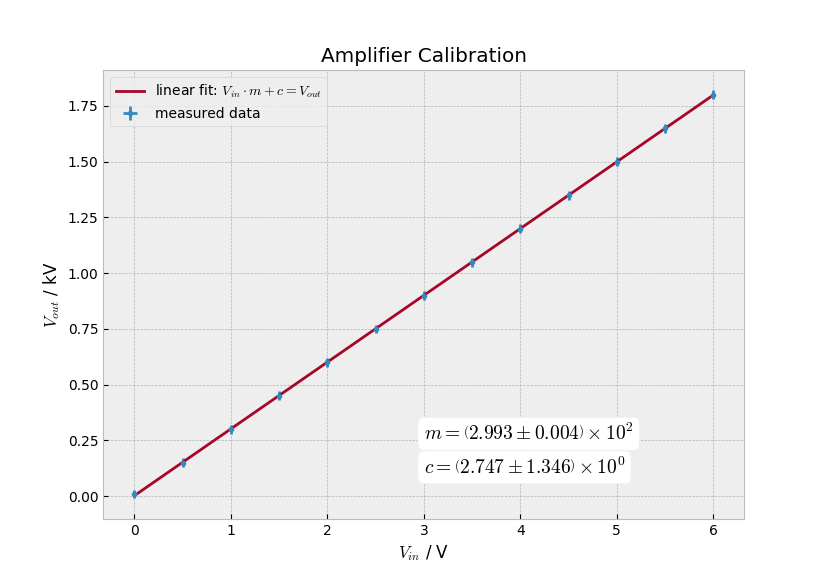
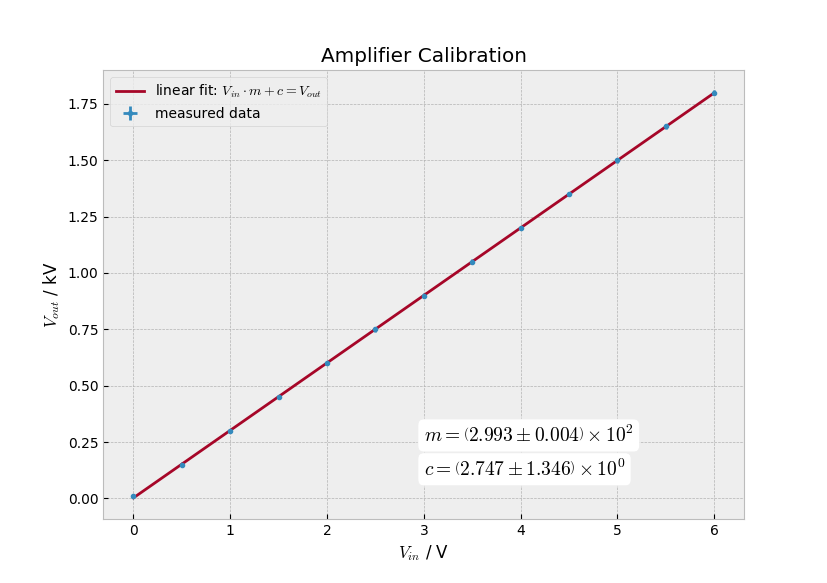
correct 5.3, add headings in 5.out

diff --git a/F85 - Optik Grundpraktikum/5.py b/F85 - Optik Grundpraktikum/5.py
@@ -9,7 +9,12 @@ plt.figure(figsize=(8.27,5.83))
 plt.style.use('bmh')
 
 data = pd.read_csv('./5.csv', skipinitialspace=True)
-print(data.columns)
+
+err_dict = {
+    "V_i": .01, # V
+    "V_o": .01, #kV
+    "V_d": .15  # V
+}
 
 naming_dict = {
     'V_i': '$V_{in}$ / V',
@@ -22,12 +27,13 @@ naming_dict = {
 data.rename(columns=naming_dict, inplace=True)
 
 # 5.2.1 Amplifier Calibration
+print("# 5.2.1 - Amplifier Calibration")
 plt.errorbar(
     data[naming_dict['V_i']],
     data[naming_dict['V_o']],
     fmt='.',
-    yerr=.02,
-    xerr=.02,
+    yerr=err_dict["V_o"],
+    xerr=err_dict["V_i"],
     label="measured data"
 )
 
@@ -35,7 +41,7 @@ rm, rc = vt.fit_linear(
     data[naming_dict["V_i"]],
     data[naming_dict["V_o"]],
     [.3, 0],
-    [.1]* len(data[naming_dict["V_i"]]),
+    [err_dict["V_i"]]* len(data[naming_dict["V_i"]]),
     "linear fit: $V_{in}\cdot m + c = V_{out}$"
 )
 
@@ -54,6 +60,7 @@ vp.unc_pp('rc', rc*1000, 'V')
 print()
 
 # 5.2.2 Mach-Zehner Interferometer
+print("# 5.2.2 - Mach-Zehner Interferometer")
 fig, ax = plt.subplots(2,1, sharex=True, figsize=(8.27, 5.83))
 
 # Axis 1
@@ -89,7 +96,8 @@ print()
 ax[1].errorbar(
     data[naming_dict["V_i"]],
     data[naming_dict["V_p2"]],
-    xerr=.05,
+    xerr=err_dict["V_i"],
+    yerr=err_dict["V_d"],
     fmt='.',
     label="measurements"
 )
@@ -121,6 +129,7 @@ plt.savefig("522.png")
 plt.clf()
 
 # 5.3 intensity Modulation
+print("# 5.3 - Polarisation Manipulation")
 fig, ax = plt.subplots(2,1, sharex=True, figsize=(8.27, 5.83))
 
 ## Axis 1
@@ -128,38 +137,46 @@ ax[0].errorbar(
     data[naming_dict["V_i"]],
     data[naming_dict["V_po1"]],
     fmt='.',
-    xerr=.05,
+    xerr=err_dict["V_i"],
+    yerr=err_dict["V_d"],
     label="measurements"
 )
 
 params = vt.fit(
     data[naming_dict["V_i"]],
     data[naming_dict["V_po1"]],
-    ffunc_cos,
-    [1.75, 1/np.pi, -.5, 2],
+    ffunc_cossq,
+    [1.75, 2/np.pi, -1, 2],
     fig=ax[0]
 )
+for k, p in enumerate(params):
+    vp.unc_pp(ffunc_cos_plist[k] + "1", p, unit=ffunc_cos_plistu[k])
 vp.unc_pp("omega1", params[1]*np.pi, "V (V_i)")
 vp.unc_pp("omega1", params[1]*np.pi*300, "V (V_o)", aftercomma=3)
+print()
 
 ## Axis 2
 ax[1].errorbar(
     data[naming_dict["V_i"]],
     data[naming_dict["V_po2"]],
     fmt='.',
-    xerr=.05,
+    xerr=err_dict["V_i"],
+    yerr=err_dict["V_d"],
     label="measurements"
 )
 
 params = vt.fit(
     data[naming_dict["V_i"]],
     data[naming_dict["V_po2"]],
-    ffunc_cos,
-    [-1.75, 1/np.pi, -.5, 2],
+    ffunc_cossq,
+    [-1.75, 2/np.pi, -.5, 2],
     fig=ax[1]
 )
+for k, p in enumerate(params):
+    vp.unc_pp(ffunc_cos_plist[k] + "2", p, unit=ffunc_cos_plistu[k])
 vp.unc_pp("omega2", params[1]*np.pi, "V (V_i)")
 vp.unc_pp("omega2", params[1]*np.pi*300, "V (V_o)", aftercomma=3)
+print()
 
 ## META
 ax[0].set_title("Polarization Manipulation")
